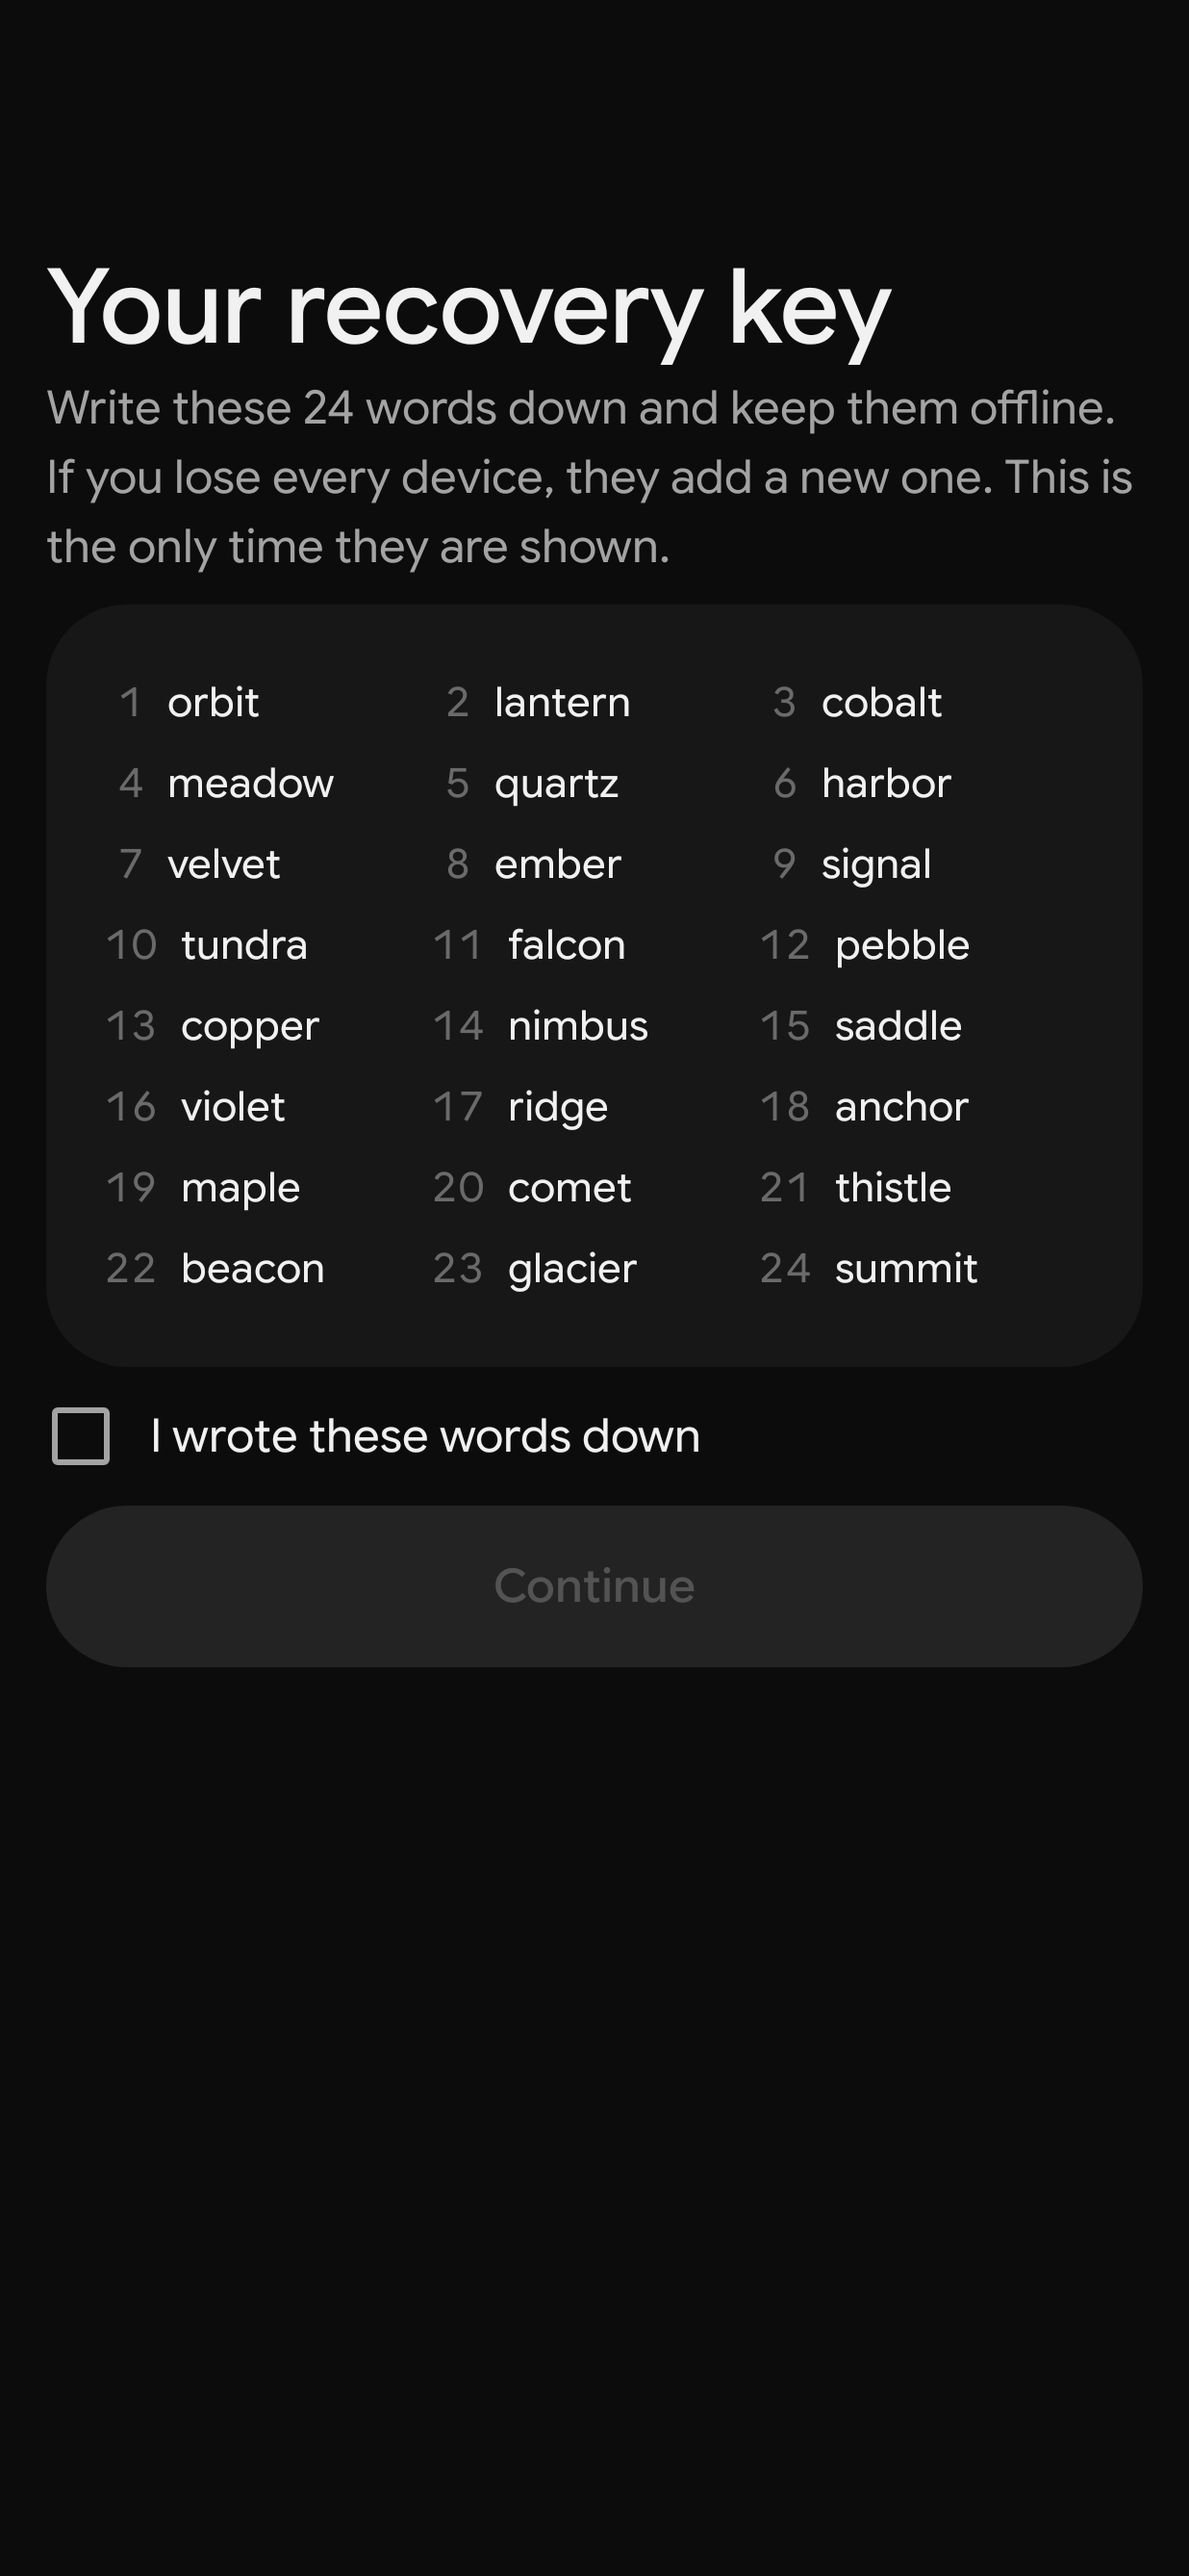
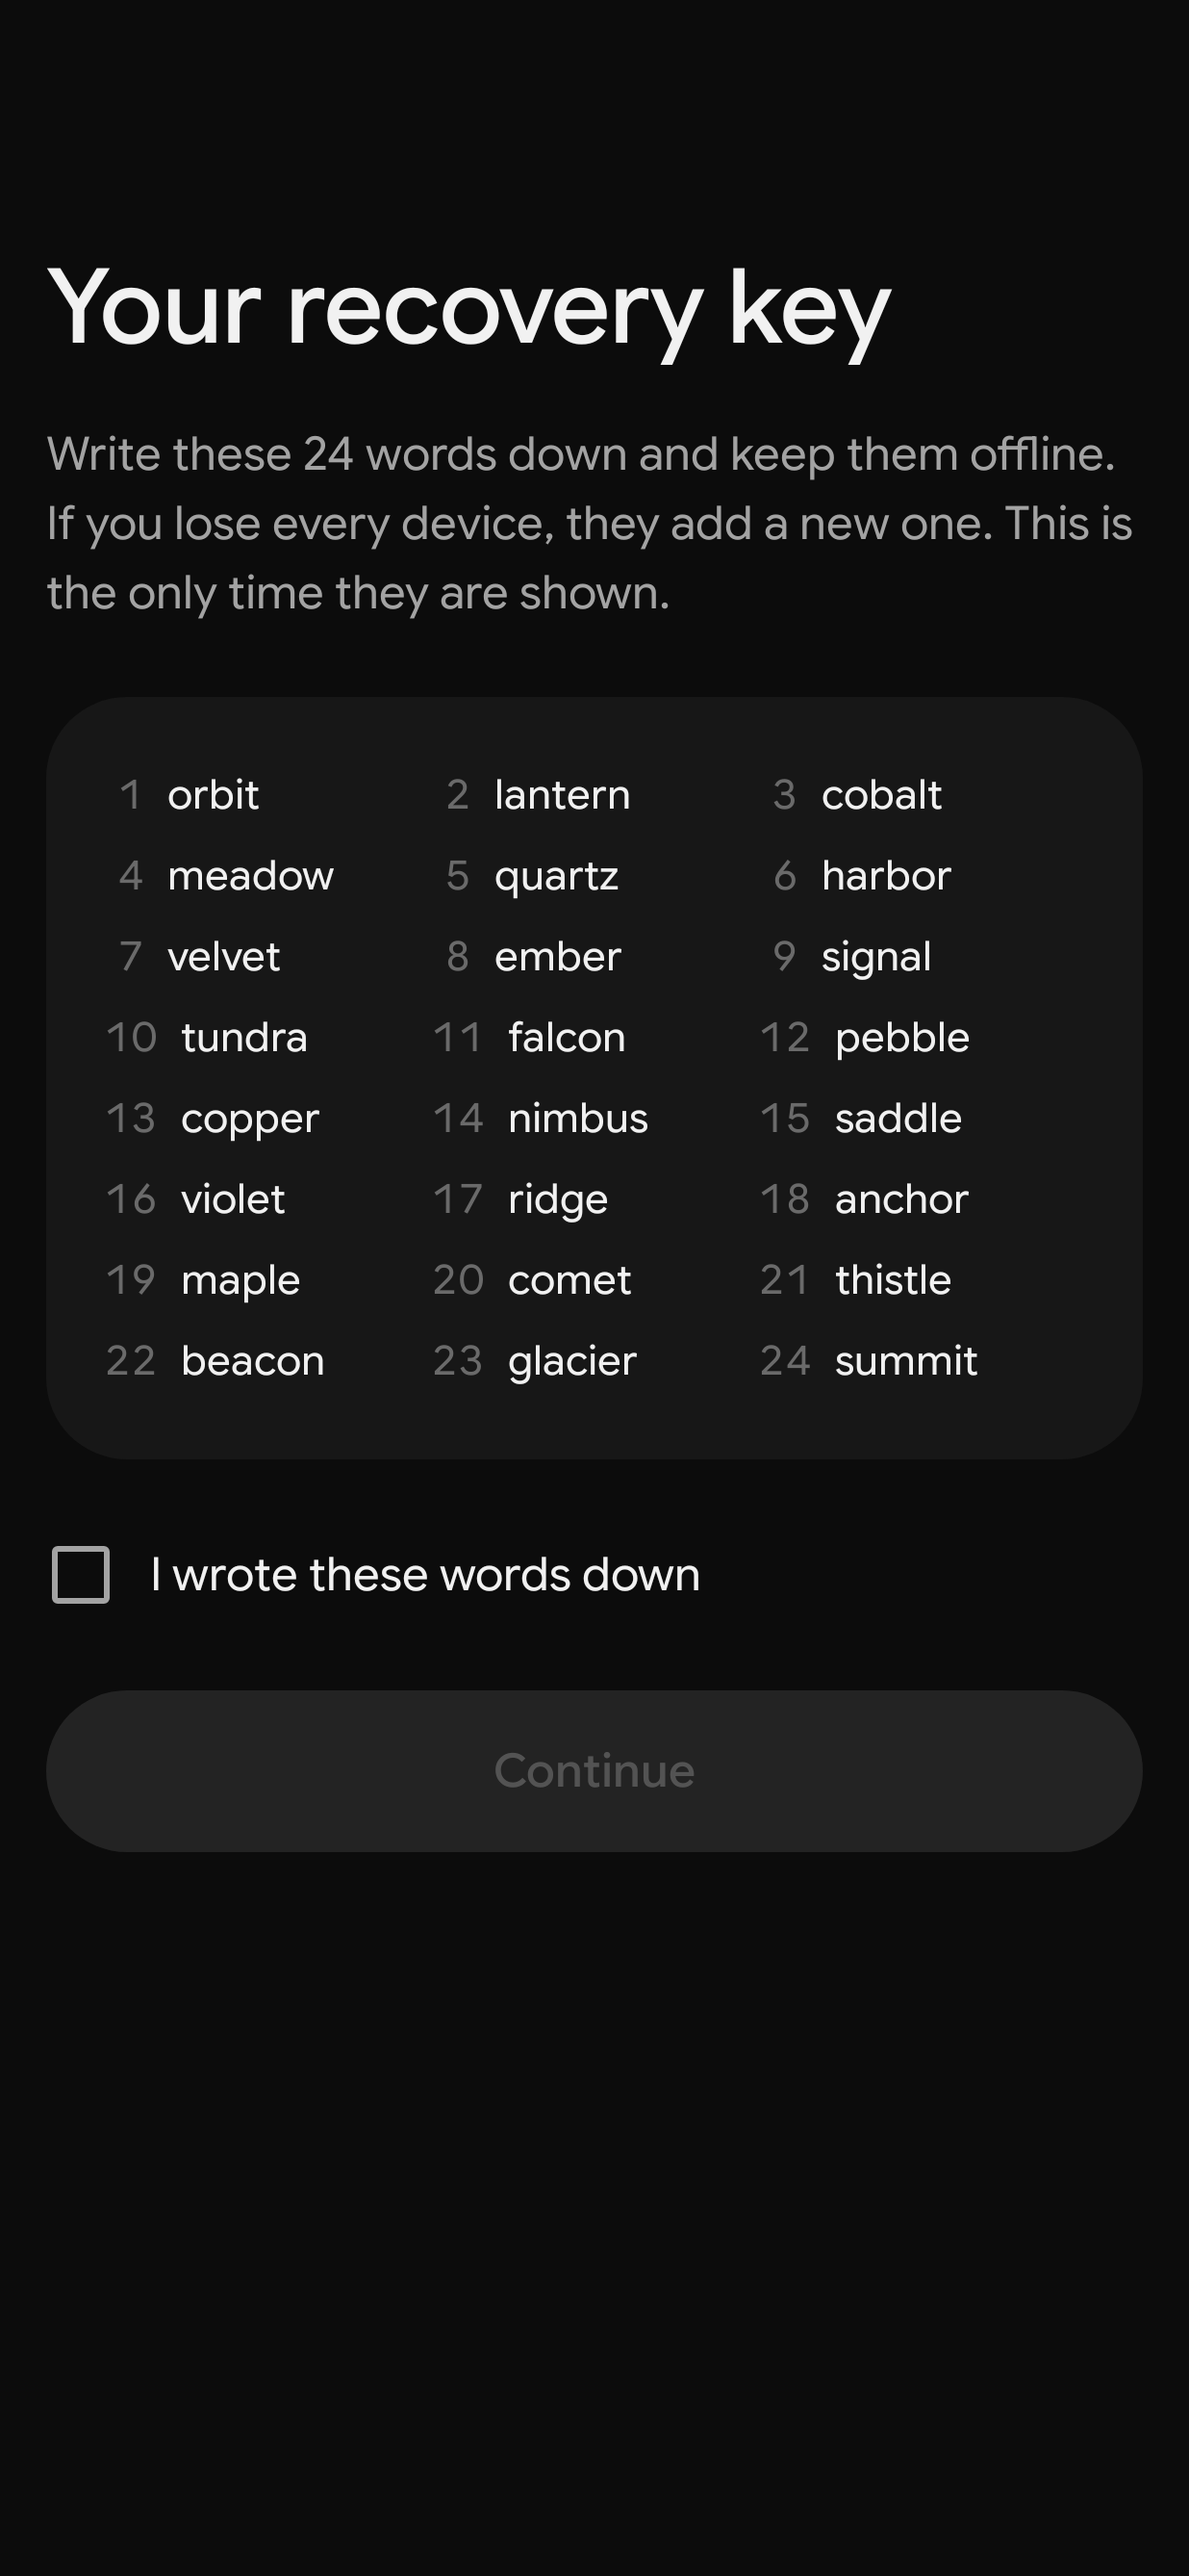
Android v2: spacing on the recovery key screen

diff --git a/android/app/src/main/kotlin/dev/starbridge/app/ui/setup/SetupScreen.kt b/android/app/src/main/kotlin/dev/starbridge/app/ui/setup/SetupScreen.kt
@@ -112,7 +112,7 @@ fun SetupScreen(phase: Phase, server: String, busy: Boolean, actions: SetupActio
         is Phase.NoDevice -> if (phase.accountExists) Join(busy, actions, modifier) else FirstDevice(busy, actions, modifier)
         is Phase.Joining -> Waiting("Approve this phone", if (phase.scanned) "Approve it on the device that shows the QR code." else "Type this code on a device you already use: ${phase.code}", null, actions.cancelJoin, modifier)
         is Phase.JoiningByDigits -> Waiting("Compare digits", "Approve on your other device if the digits match.", phase.digits, actions.cancelJoin, modifier)
-        is Phase.RecoveryKey -> Column(modifier.fillMaxSize().verticalScroll(rememberScrollState()).padding(horizontal = Spacing.s4)) { RecoveryKey(phase.words, actions.saved) }
+        is Phase.RecoveryKey -> Column(modifier.fillMaxSize().verticalScroll(rememberScrollState()).padding(start = Spacing.s4, end = Spacing.s4, bottom = Spacing.s10), verticalArrangement = Arrangement.spacedBy(Spacing.s4)) { RecoveryKey(phase.words, actions.saved) }
         Phase.Ready -> Unit
     }
 }
